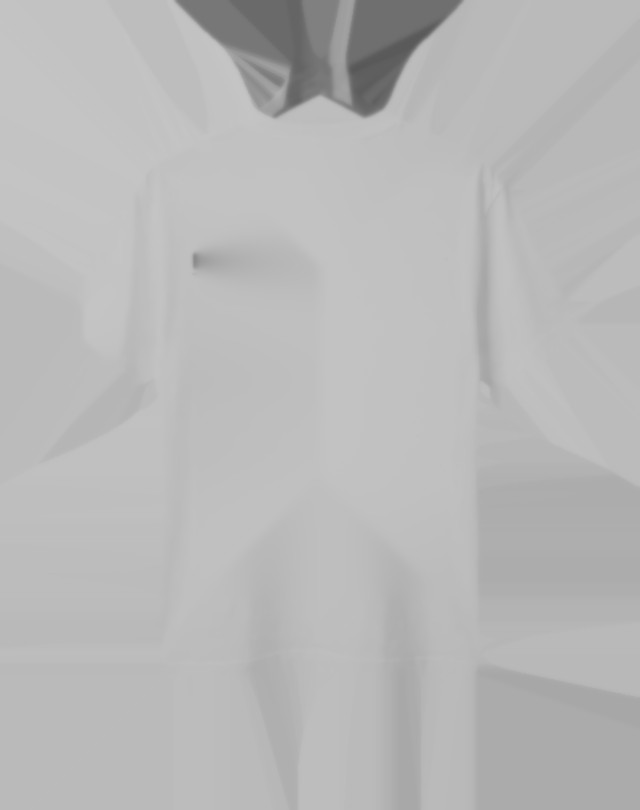
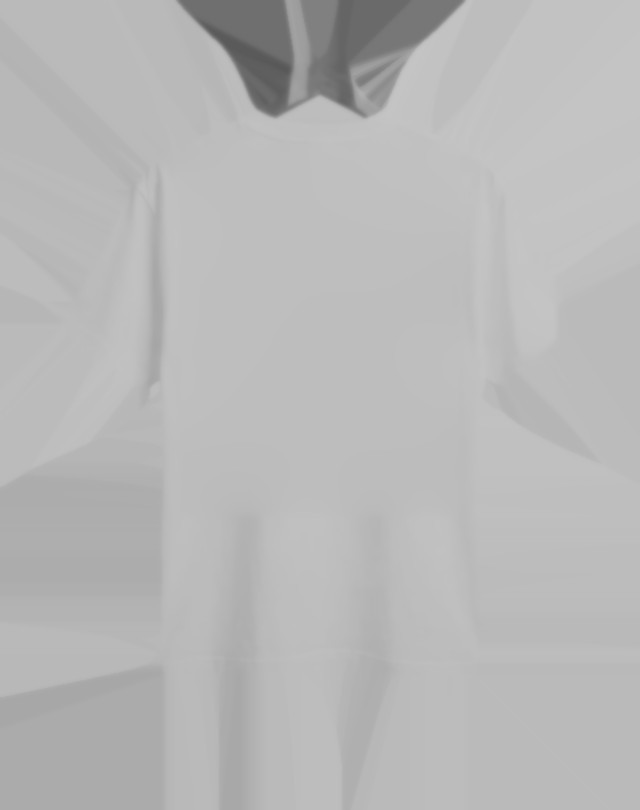
Render neutral fabric inside openings and remove inferred back smudges

diff --git a/lib/garment-material.ts b/lib/garment-material.ts
@@ -64,6 +64,9 @@ export function garmentMaterial(frontMap: THREE.Texture, backMap: THREE.Texture,
             if(vSurface>.5&&vSurface<1.5&&backEnabled>.5)ink=placedArtwork(backArtwork,backPlacement,1.);
             garmentColor.rgb=mix(garmentColor.rgb,ink.rgb*clamp(shade,.45,1.1),ink.a);
           }
+          // Open cuffs and hems expose the inside of the fabric, not another
+          // copy of the exterior artwork printed on the back of a card.
+          if(!gl_FrontFacing)garmentColor.rgb=fabricColor*.72;
           vec3 n=normalize(vFabricNormal)*(gl_FrontFacing?1.:-1.);
           float key=max(dot(n,normalize(vec3(-.45,.6,1.))),0.);
           float fill=max(dot(n,normalize(vec3(.8,.15,-.5))),0.);

diff --git a/tools/check-fabric-interior.py b/tools/check-fabric-interior.py
@@ -1,0 +1,25 @@
+"""Render both sides of a printed fabric triangle with the production GLSL."""
+import sys,json
+from pathlib import Path
+import numpy as np
+import moderngl
+
+shaders=json.loads(Path(sys.argv[1]).read_text())
+ctx=moderngl.create_standalone_context(backend='egl',require=330)
+p=ctx.program(vertex_shader=shaders['garment']['vertex'],fragment_shader=shaders['garment']['fragment'])
+for name in ['modelMatrix','modelViewMatrix','projectionMatrix']:p[name].write(np.eye(4,dtype='f4').tobytes())
+p['mapTransform'].write(np.eye(3,dtype='f4').tobytes())
+white=ctx.texture((1,1),4,bytes([255,255,255,255]),internal_format=0x8c43)
+pink=ctx.texture((1,1),4,bytes([255,0,255,255]),internal_format=0x8c43)
+for name,slot in [('map',0),('backMap',1),('fabricMap',2),('fabricBackMap',3),('printMask',4),('frontArtwork',5),('backArtwork',6)]:p[name].value=slot;white.use(slot)
+pink.use(5)
+for name,value in [('diffuse',(1,1,1)),('opacity',1),('fabricColor',(1,1,1)),('woodColor',(.2,.1,.05)),('customized',1),('keepOriginal',0),('frontEnabled',1),('backEnabled',0),('frontPlacement',(0,0,4,4)),('backPlacement',(0,0,4,4))]:p[name].value=value
+data=np.array([[-.9,-.9,0,0,0,1,.25,.5,0],[.9,-.9,0,0,0,1,.25,.5,0],[0,.9,0,0,0,1,.25,.5,0]],dtype='f4')
+v=ctx.buffer(data.tobytes());target=ctx.simple_framebuffer((16,16),components=4);target.use()
+def render(indices):
+    i=ctx.buffer(np.array(indices,dtype='u4').tobytes());vao=ctx.vertex_array(p,[(v,'3f 3f 2f 1f','position','normal','uv','garmentSurface')],i,index_element_size=4)
+    target.clear();vao.render();pixel=np.frombuffer(target.read(components=4),dtype='u1').reshape(16,16,4)[6,8].tolist();vao.release();i.release();return pixel
+front=render([0,1,2]);inside=render([0,2,1])
+assert front[0]>front[1]+80 and front[2]>front[1]+80,front
+assert max(inside[:3])-min(inside[:3])<3 and inside[3]==255,inside
+print(json.dumps({'scope':'Production fragment shader pixels under EGL','exteriorArtwork':front,'interiorFabric':inside,'artworkDoesNotShowInside':True}))

diff --git a/tools/build-garment-backs.py b/tools/build-garment-backs.py
@@ -1,0 +1,23 @@
+"""Infer clean unprinted backs from the colour-neutral cotton maps.
+
+The original backs were filled across large graphics and contained dark smudges.
+Use the print-free fabric continuation, keeping its grain and broad shading.
+"""
+from pathlib import Path
+import json
+import numpy as np
+from PIL import Image
+
+ROOT=Path(__file__).resolve().parents[1]
+MODELS=ROOT/'public/models'
+garments=json.loads((ROOT/'lib/garments.json').read_text())+[json.loads((ROOT/'public/garments/hoodie.json').read_text())]
+def linear(c):return np.where(c<=.04045,c/12.92,((c+.055)/1.055)**2.4)
+def srgb(c):return np.where(c<=.0031308,c*12.92,1.055*np.maximum(c,0)**(1/2.4)-.055)
+for g in garments:
+    neutral=np.asarray(Image.open(MODELS/f'{g["id"]}-fabric.jpg').convert('RGB'))[:,:640][:,::-1].copy()
+    shade=np.clip(linear(neutral.astype(float)/255)[:,:,:1]/.5149,.08,1.4)
+    color=linear(np.array([int(g['fabricColor'][i:i+2],16)/255 for i in [1,3,5]]))
+    back=np.clip(np.rint(srgb(color*shade)*255),0,255).astype('uint8')
+    Image.fromarray(back).save(MODELS/f'{g["id"]}-back.jpg',quality=92)
+    Image.fromarray(neutral).save(MODELS/f'{g["id"]}-fabric-back.jpg',quality=90)
+    print(g['id'],'clean cotton back')
